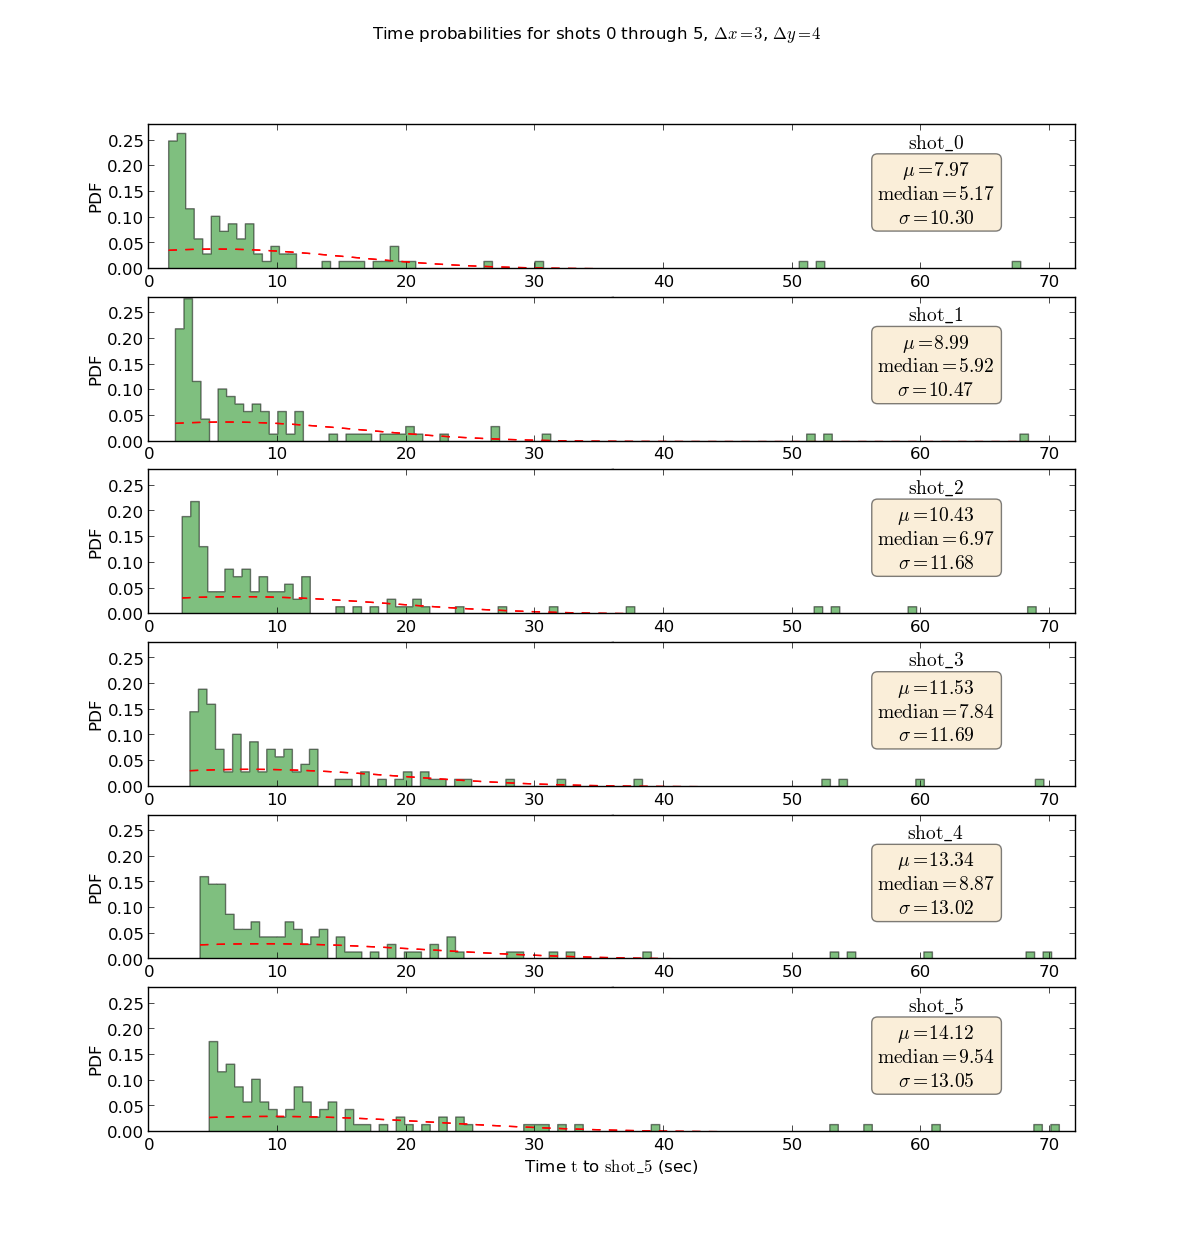
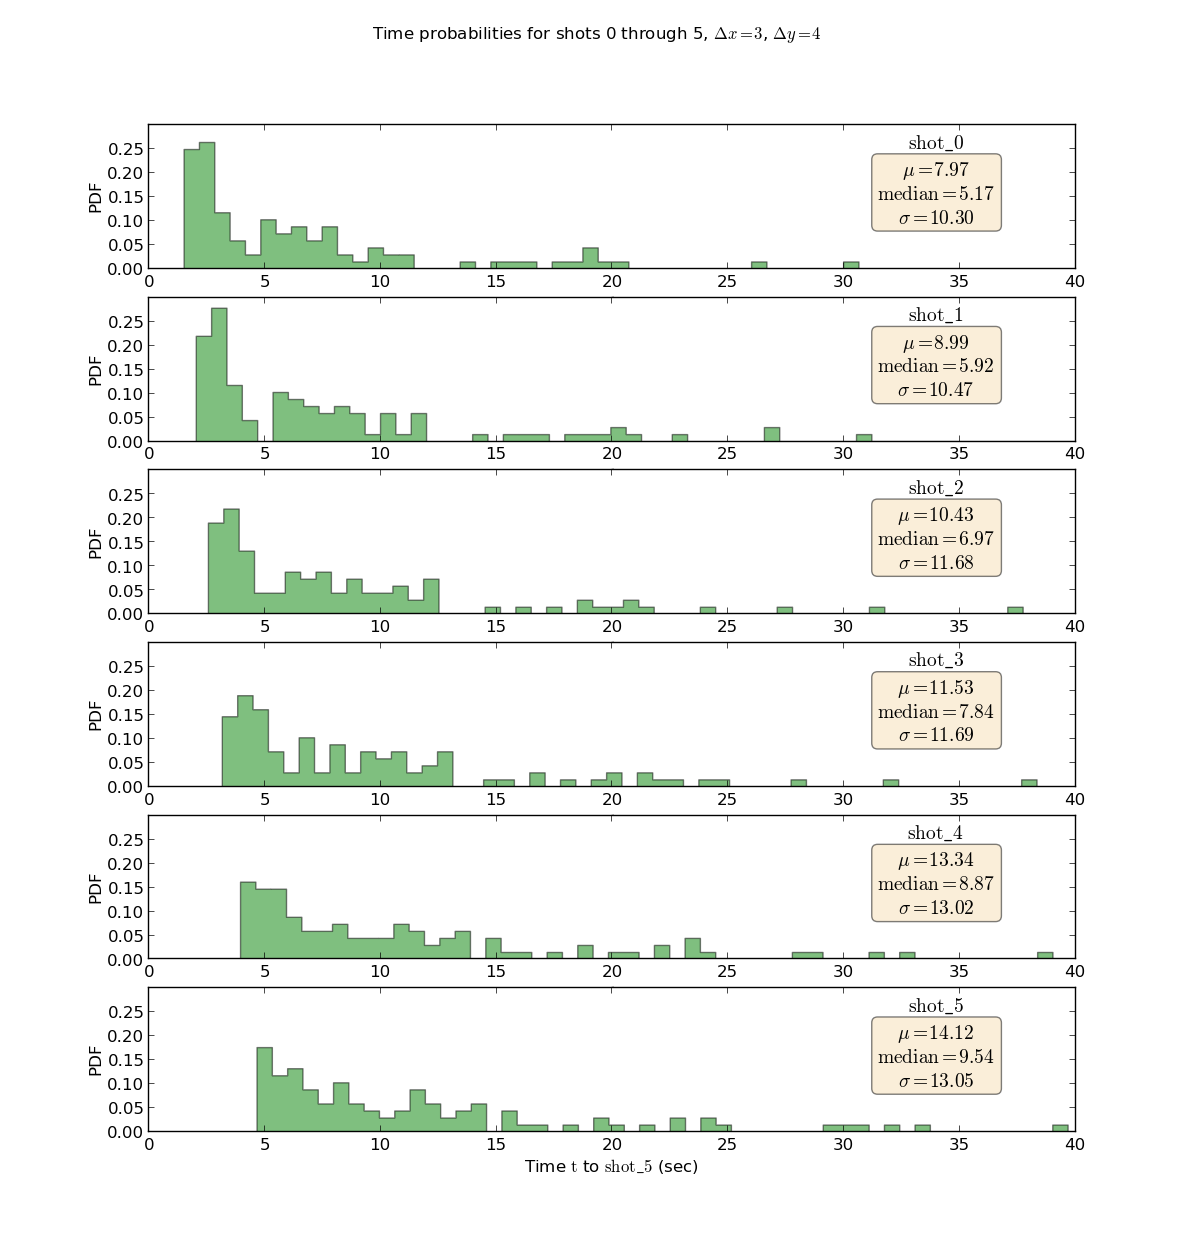
New CDF and PDF combination chart

diff --git a/analysis/plot/histograms_avgv2.py b/analysis/plot/histograms_avgv2.py
@@ -4,66 +4,159 @@ import matplotlib.mlab as mlab
 import matplotlib.pyplot as plt
 from lib import mean, average_trial_data_v2
 
+def grouped_shots():
+	shots = [[] for _ in xrange(6)]
+	for ang in success:
+		for lin in success[ang]:
+			for (i, avg) in enumerate(success[ang][lin]):
+				shots[i].append(avg)
+	return shots
+
 (success, failure) = average_trial_data_v2()
-
-shots = [[] for _ in xrange(6)]
-for ang in success:
-	for lin in success[ang]:
-		for (i, avg) in enumerate(success[ang][lin]):
-			shots[i].append(avg)
-
 num_bins = 100
+shots = grouped_shots()
 
 
-for i, shotarr in enumerate(shots):
-	# plot formatting
-	ax = plt.subplot(6, 1, i + 1)
-	# plt.tight_layout(w_pad=0.0, h_pad=0.00)
-	axes = plt.gca()
-	axes.set_xlim([0,72])
-	axes.set_ylim([0.00,0.28])
+def PDF():
+	for i, shotarr in enumerate(shots):
+		# plot formatting
+		ax = plt.subplot(6, 1, i + 1)
+		# plt.tight_layout(w_pad=0.0, h_pad=0.00)
+		axes = plt.gca()
+		axes.set_xlim([0,70])
+		axes.set_ylim([0.00,0.35])
 
-	# histogram plotting
-	n, bins, patches = plt.hist(shots[i], num_bins, normed=True, facecolor='green', alpha=0.5, histtype='stepfilled')
+		# histogram plotting
+		n, bins, patches = plt.hist(shots[i], num_bins, normed=True, facecolor='green', alpha=0.5, histtype='stepfilled')
 
-	# calculate properties
-	avg = np.mean(shots[i])
-	med = np.median(shots[i])
-	sigma = np.std(shots[i])
+		# calculate properties
+		avg = np.mean(shots[i])
+		med = np.median(shots[i])
+		sigma = np.std(shots[i])
 
-	# add a 'best fit' line
-	y = mlab.normpdf(bins, med, sigma)
-	print avg, med, sigma
-	plt.plot(bins, y, 'r--')
+		# add a 'best fit' line
+		# y = mlab.normpdf(bins, med, sigma)
+		print avg, med, sigma
+		# plt.plot(bins, y, 'r--')
 
-	# add a 'best fit' line
-	y = mlab.normpdf(bins, med, sigma)
-	print avg, med, sigma
-	plt.plot(bins, y, 'r--')
+		# add text box \\tilde{\mathrm{t}}
+		textstr = '$\mathrm{mean}=%.2f$\n$\mathrm{median}=%.2f$\n$\sigma=%.2f$' %(avg, med, sigma)
+		props = dict(boxstyle='round', facecolor='wheat', alpha=0.5) # these are matplotlib.patch.Patch properties
+		left, width = .35, .5
+		bottom, height = .26, .5
+		right = left + width
+		top = bottom + height
+		ax.text(right, top, textstr, transform=ax.transAxes, fontsize=14,
+	        horizontalalignment='center', verticalalignment='top', bbox=props)
 
-	# add text box \\tilde{\mathrm{t}}
-	textstr = '$\mu=%.2f$\n$\mathrm{median}=%.2f$\n$\sigma=%.2f$' %(avg, med, sigma)
-	props = dict(boxstyle='round', facecolor='wheat', alpha=0.5) # these are matplotlib.patch.Patch properties
-	left, width = .35, .5
-	bottom, height = .26, .5
-	right = left + width
-	top = bottom + height
-	ax.text(right, top, textstr, transform=ax.transAxes, fontsize=14,
-        horizontalalignment='center', verticalalignment='top', bbox=props)
+		textstr = '$\mathrm{shot\_%d}$' % i
+		ax.text(right, 0.95, textstr, transform=ax.transAxes, fontsize=14,
+			horizontalalignment='center', verticalalignment='top')
 
-	textstr = '$\mathrm{shot\_%d}$' % i
-	ax.text(right, 0.95, textstr, transform=ax.transAxes, fontsize=14,
-		horizontalalignment='center', verticalalignment='top')
+		plt.ylabel('PDF')
+	plt.xlabel('Time $\mathrm{t}$ to $\mathrm{shot\_i}$ (sec)')
+	plt.suptitle(r'Time probabilities for shots 0 through 5, $\Delta x = 3$, $\Delta y = 4$')
 
-	plt.ylabel('PDF')
-	plt.xlabel('Time $\mathrm{t}$ to $\mathrm{shot\_%d}$ (sec)' % i)
-	# plt.title('$\mathrm{shot\_%d}$' % i)
+def ECDF():
+	for i, shotarr in enumerate(shots):
+		# plot formatting
+		ax = plt.subplot(6, 1, i + 1)
+		# plt.tight_layout(w_pad=0.0, h_pad=0.00)
+		axes = plt.gca()
+		axes.set_ylim([0.00,0.3])
+		axes2 = axes.twinx()
+		axes.set_xlim([0, 72])
+		axes2.set_xlim([0,72])
 
-# plt.ylabel('Normalized probability')
-plt.suptitle(r'Time probabilities for shots 0 through 5, $\Delta x = 3$, $\Delta y = 4$')
-# Tweak spacing to prevent clipping of ylabel
+		# histogram plotting
+		n, bins, patches = axes.hist(shots[i], num_bins, normed=True, facecolor='green', alpha=0.5, histtype='stepfilled')
+		# n, bins, patches = plt.hist(shots[i], num_bins, normed=True, cumulative=True, facecolor='green', alpha=0.5, histtype='stepfilled')
 
-# plt.subplots_adjust(left=0.15)
+		# calculate properties
+		avg = np.mean(shots[i])
+		med = np.median(shots[i])
+		sigma = np.std(shots[i])
+
+		srted = np.sort( shotarr )
+		yvals = np.arange(len(srted))/float(len(srted))
+		print srted
+		print yvals
+		axes2.plot( srted, yvals, 'r' )
 
 
+		# add a 'best fit' line
+		# y = mlab.normpdf(bins, med, sigma)
+		print avg, med, sigma
+		# plt.plot(bins, y, 'r--')
+
+		# add text box \\tilde{\mathrm{t}}
+		textstr = '$\mu=%.2f$\n$\mathrm{median}=%.2f$\n$\sigma=%.2f$' %(avg, med, sigma)
+		props = dict(boxstyle='round', facecolor='wheat', alpha=0.5) # these are matplotlib.patch.Patch properties
+		left, width = .35, .5
+		bottom, height = .24, .5
+		right = left + width
+		top = bottom + height
+		ax.text(right, top, textstr, transform=ax.transAxes, fontsize=14,
+	        horizontalalignment='center', verticalalignment='top', bbox=props)
+
+		textstr = '$\mathrm{shot\_%d}$' % i
+		ax.text(right, 0.93, textstr, transform=ax.transAxes, fontsize=14,
+			horizontalalignment='center', verticalalignment='top')
+
+		axes.set_ylabel('PDF (green)')
+		axes2.set_ylabel('CDF (red)')
+		axes.set_xlabel('Simuation timeline (seconds)')
+	plt.suptitle('Time distribution of 6 shots fired by the pursuer across all factor sets\nPDF (green): Fraction of shots fired during each of 100 timestep bins\nCDF (red): Fraction of shots fired by that time\n$\Delta x = 3$ m, $\Delta y = 4$ m, Evader $0.6$ m/s and $1.0$ rad/s velocity limits', fontname="Times New Roman Bold", fontsize=16)
+
+def CDF():
+	# shotarr is a flat array if floats for each of 6 histograms
+	for i, shotarr in enumerate(shots):
+		# plot formatting
+		ax = plt.subplot(6, 1, i + 1)
+		# plt.tight_layout(w_pad=0.0, h_pad=0.00)
+		axes = plt.gca()
+		axes.set_xlim([0,80])
+		# axes.set_ylim([0.00,0.35])
+
+		# for ECF: http://stackoverflow.com/questions/3209362/how-to-plot-empirical-cdf-in-matplotlib-in-python
+		srted = np.sort( shotarr )
+		yvals = np.arange(len(srted))/float(len(srted))
+		print srted
+		print yvals
+		plt.plot( srted, yvals )
+
+		# histogram plotting
+		# n, bins, patches = plt.hist(shots[i], num_bins, normed=True, facecolor='green', alpha=0.5, histtype='stepfilled')
+
+		# calculate properties
+		avg = np.mean(shots[i])
+		med = np.median(shots[i])
+		sigma = np.std(shots[i])
+
+		# add a 'best fit' line
+		# y = mlab.normpdf(bins, med, sigma)
+		# print avg, med, sigma
+		# plt.plot(bins, y, 'r--')
+
+		# add text box \\tilde{\mathrm{t}}
+		textstr = '$\mu=%.2f$\n$\mathrm{median}=%.2f$\n$\sigma=%.2f$' %(avg, med, sigma)
+		props = dict(boxstyle='round', facecolor='wheat', alpha=0.5) # these are matplotlib.patch.Patch properties
+		left, width = .35, .5
+		bottom, height = .26, .5
+		right = left + width
+		top = bottom + height
+		ax.text(right, top, textstr, transform=ax.transAxes, fontsize=14,
+	        horizontalalignment='center', verticalalignment='top', bbox=props)
+
+		textstr = '$\mathrm{shot\_%d}$' % i
+		ax.text(right, 0.95, textstr, transform=ax.transAxes, fontsize=14,
+			horizontalalignment='center', verticalalignment='top')
+
+		plt.ylabel('CDF')
+	plt.xlabel('Time $\mathrm{t}$ to $\mathrm{shot\_i}$ (sec)')
+
+	# plt.suptitle(r'Time probabilities for shots 0 through 5, $\Delta x = 3$, $\Delta y = 4$')
+	plt.suptitle(r'Time probabilities for shots 0 through 5, $\Delta x = 3 \textrm{m}$, $\Delta y = 4 \textrm{m}$')
+
+ECDF()
 plt.show()
